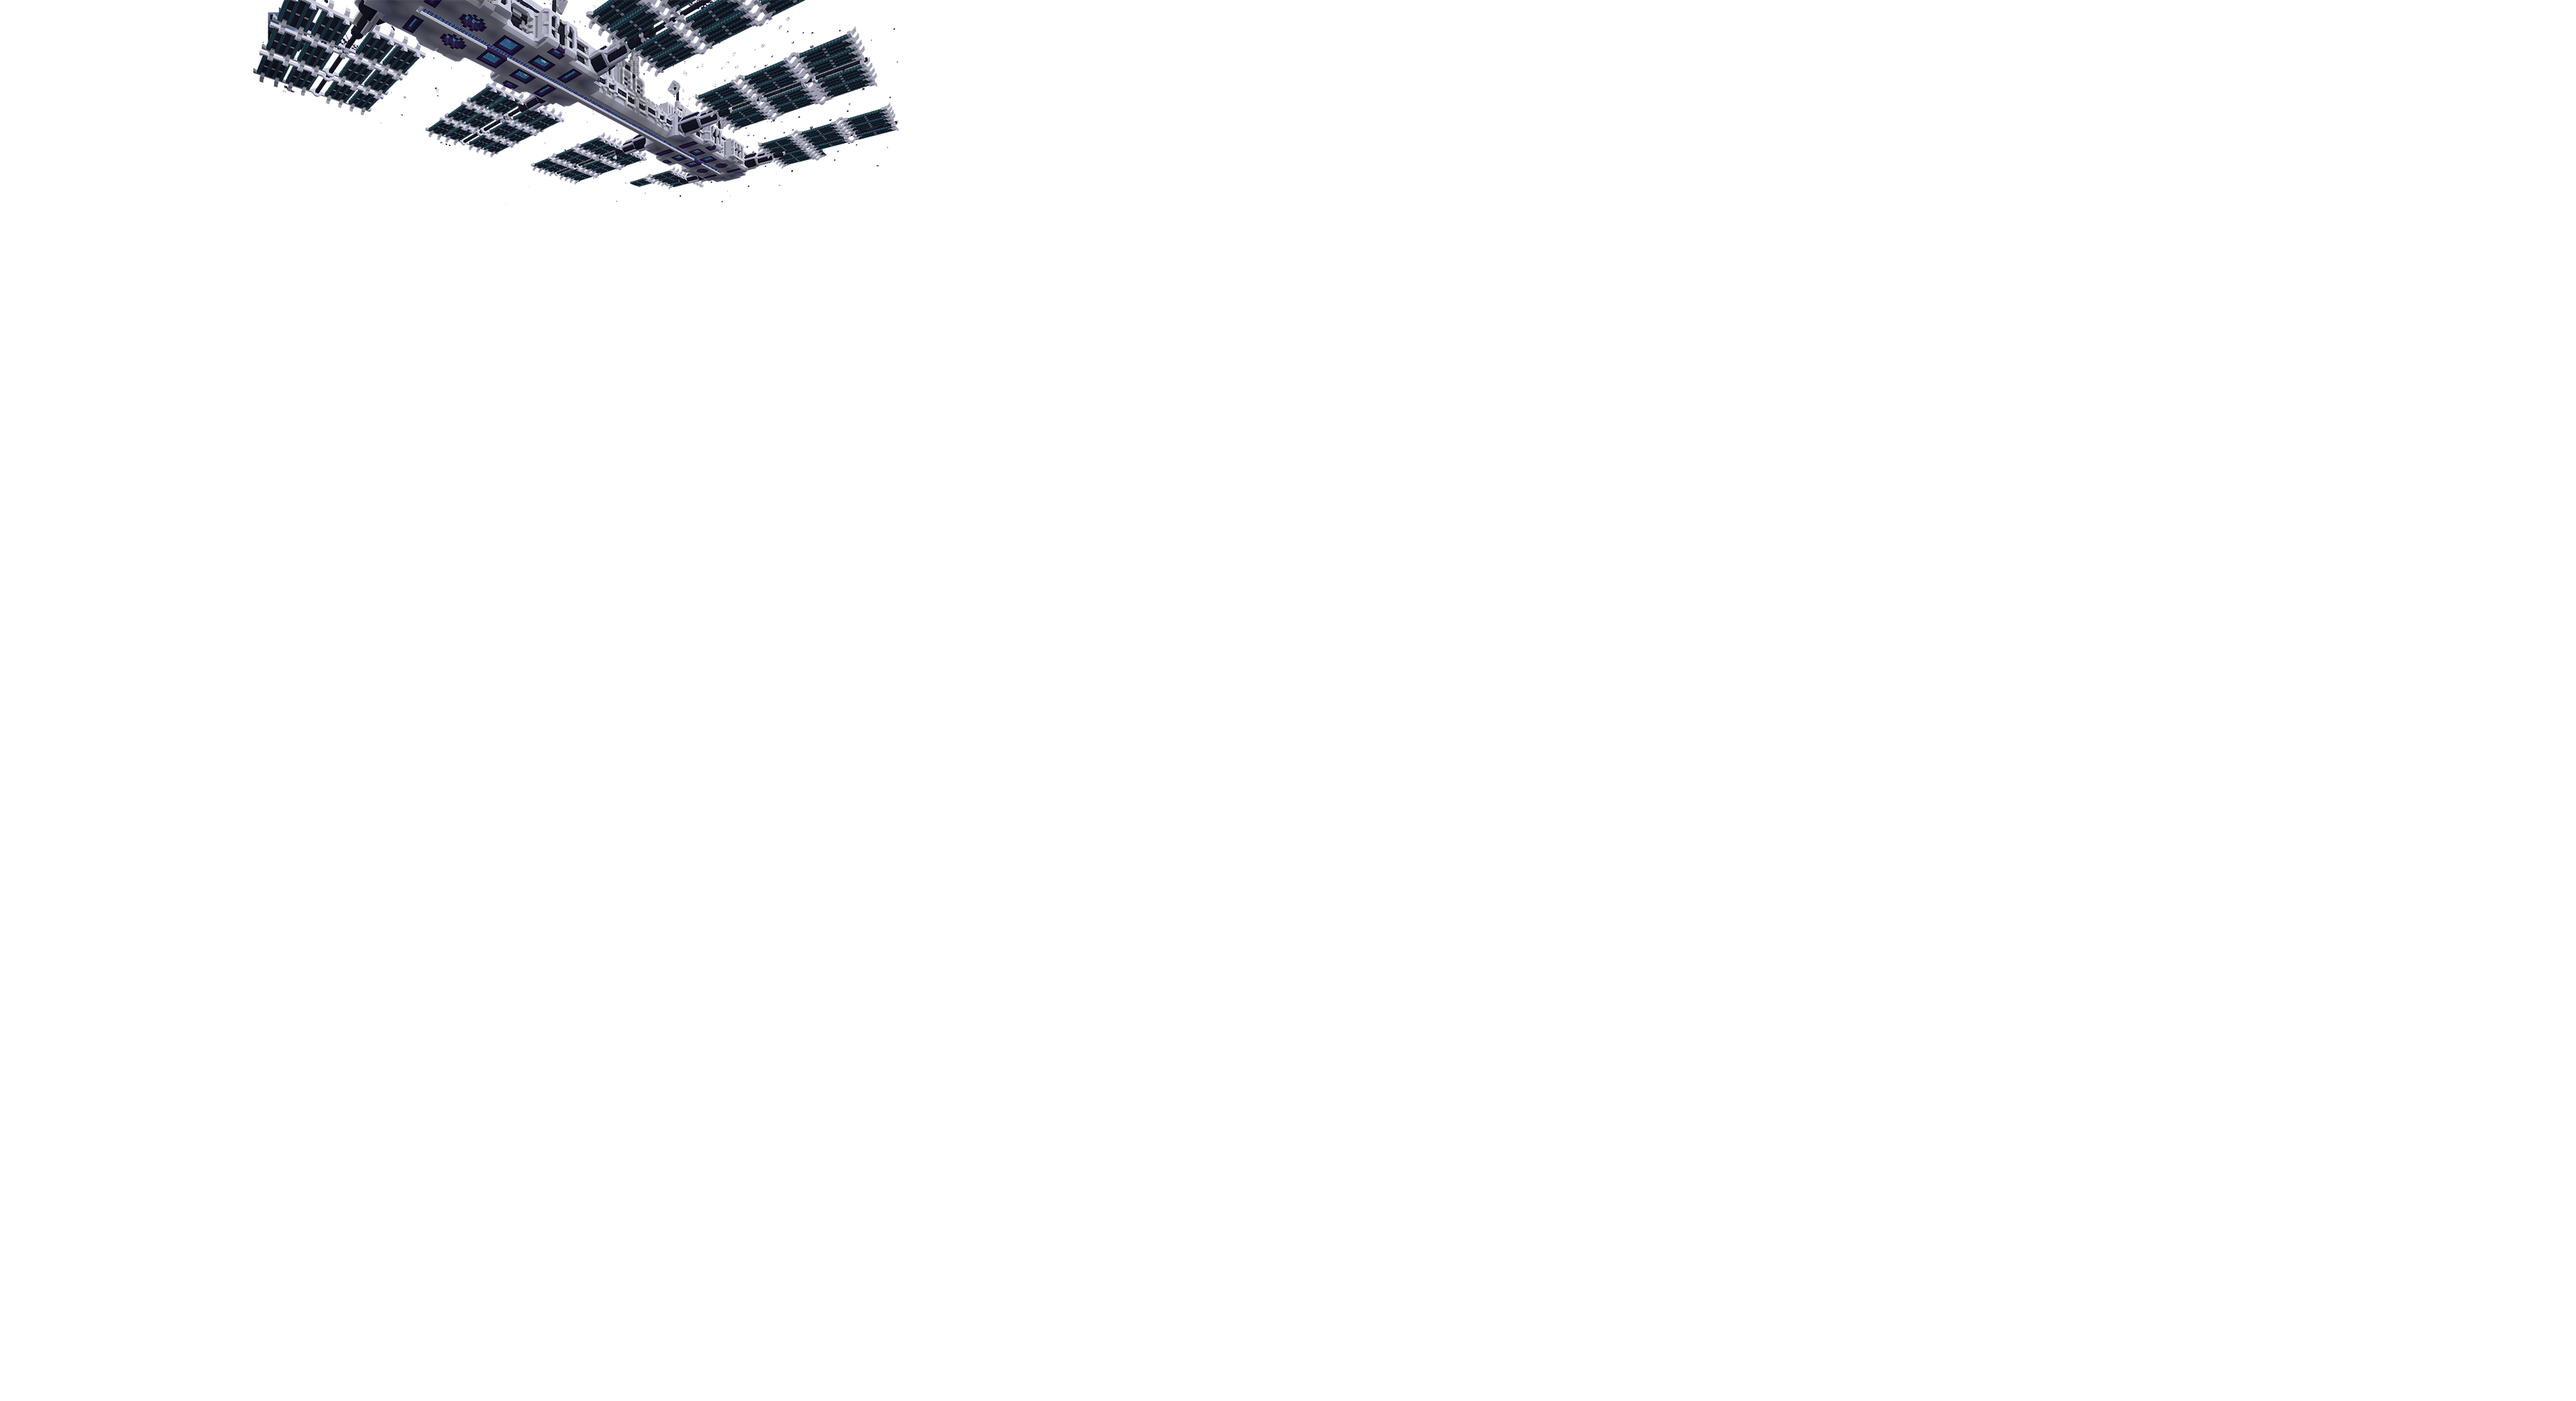
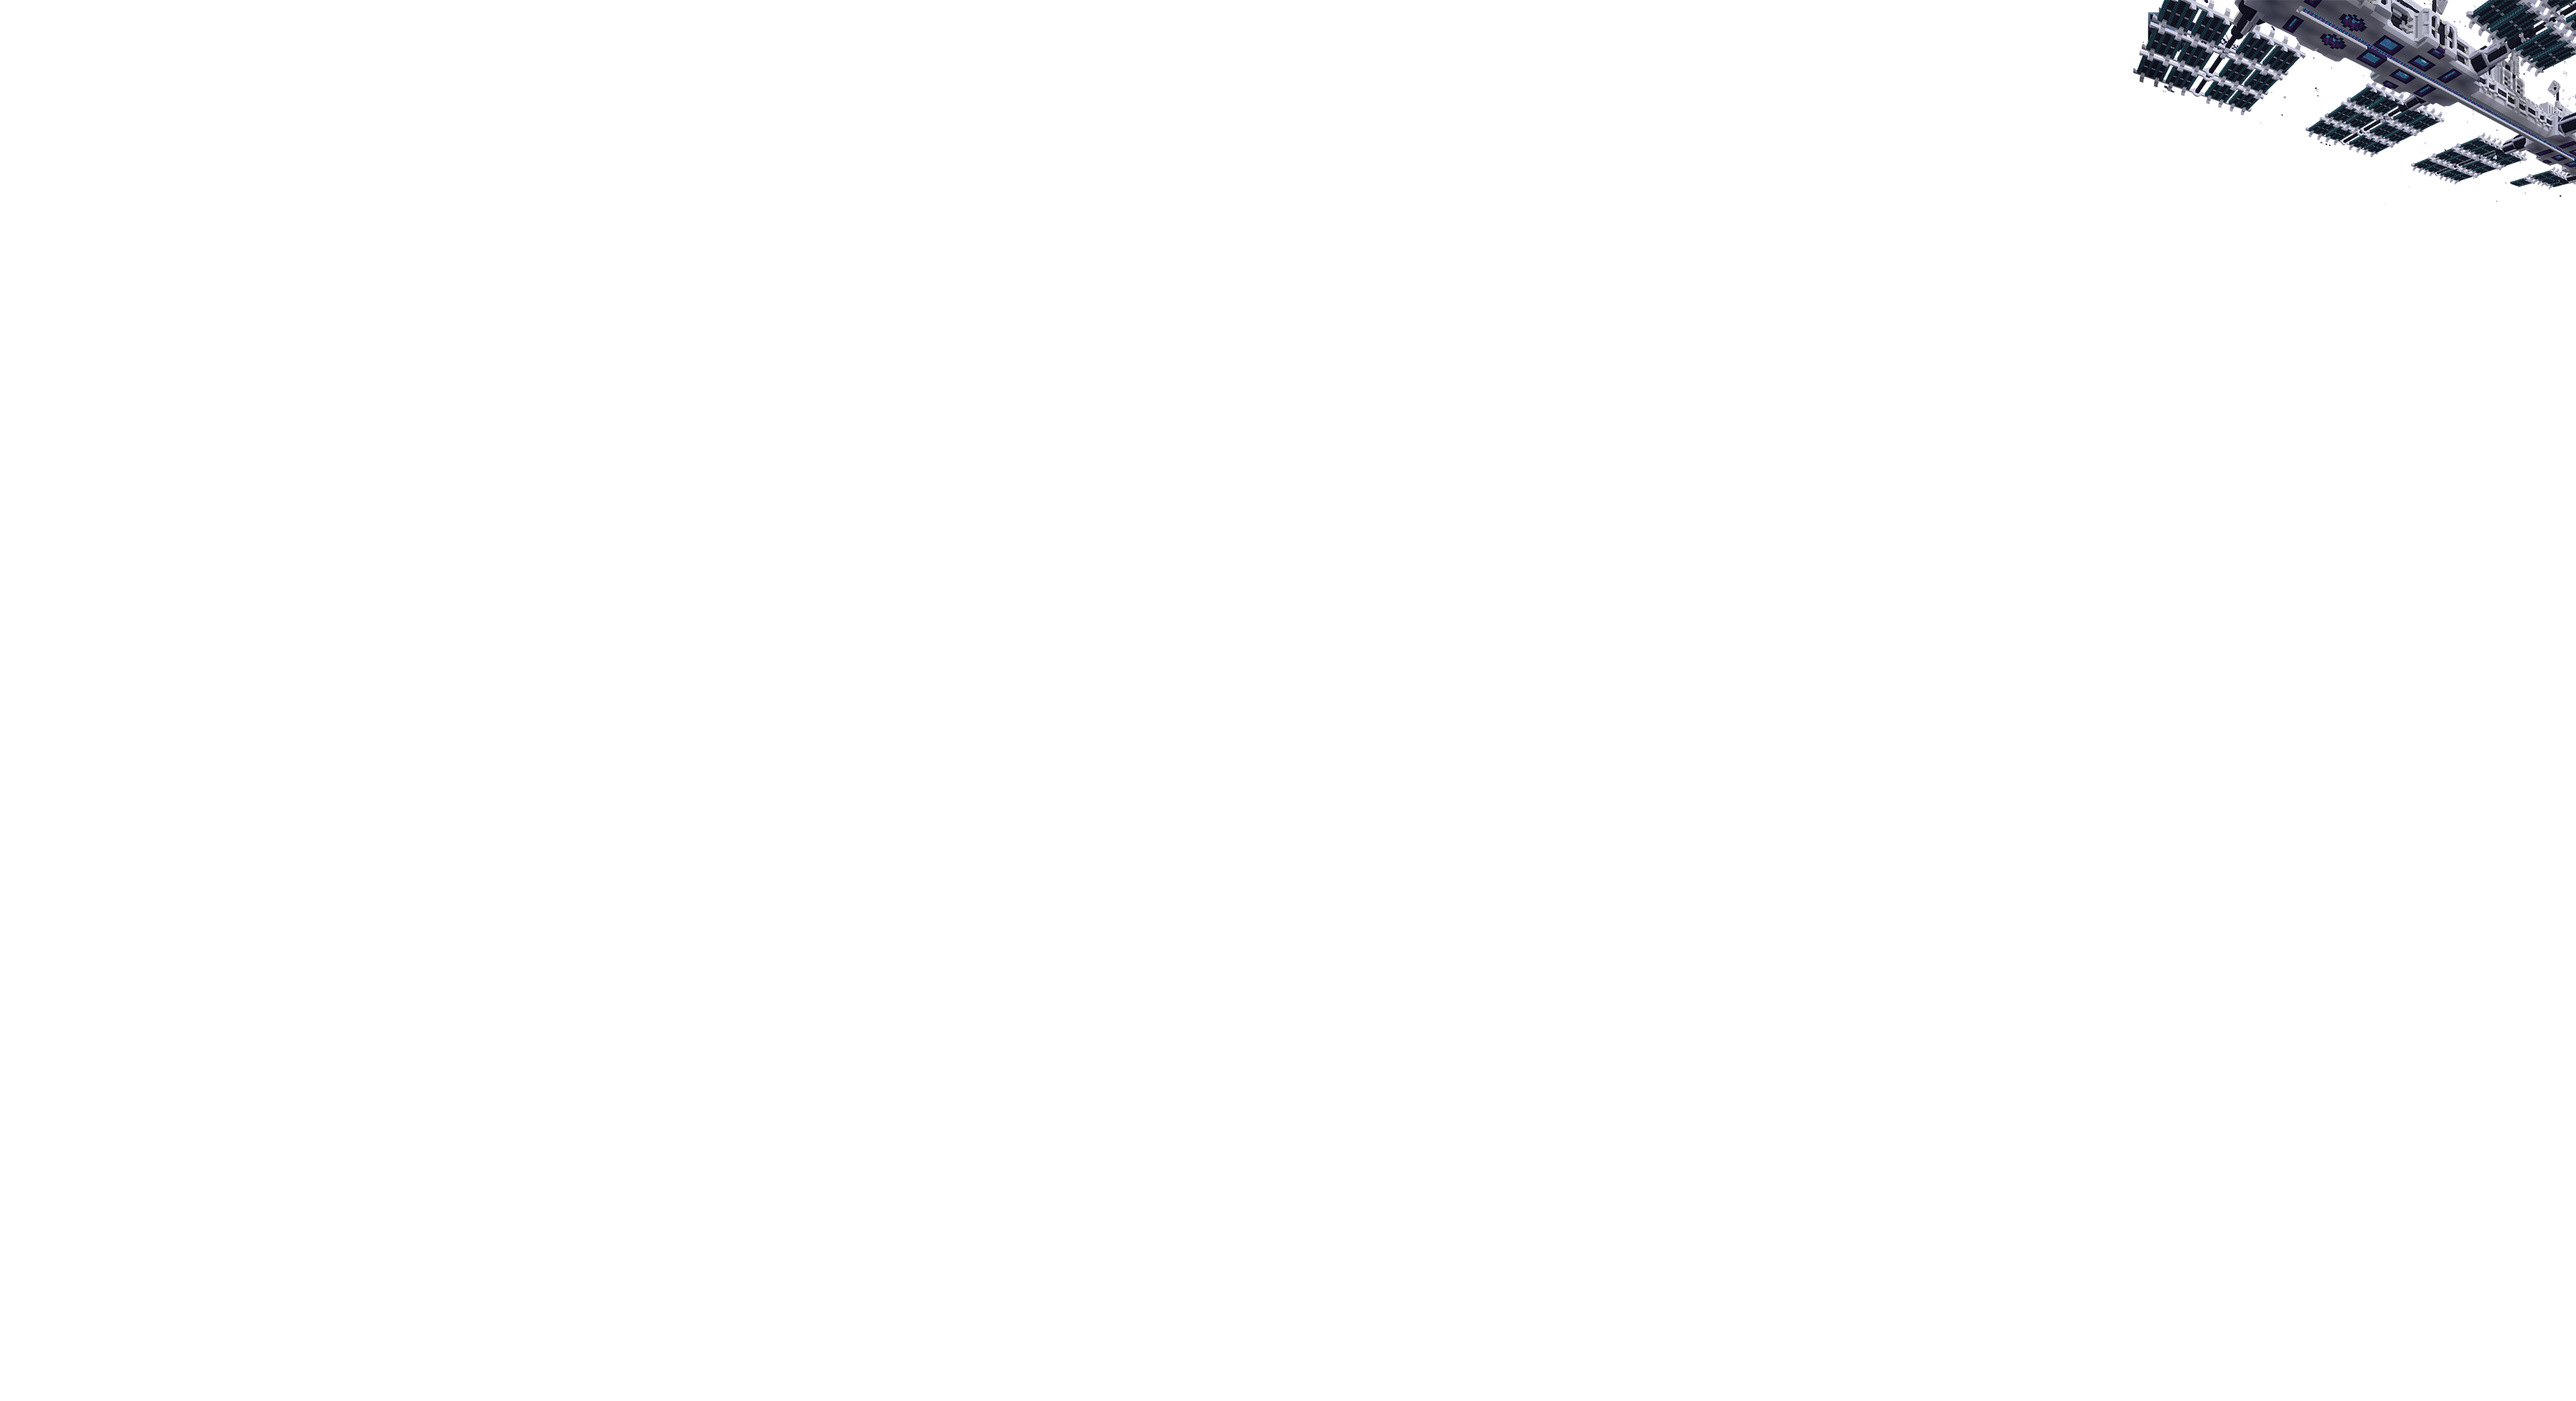
bgs

Changed region(s): [[0.0936, 0.0, 0.3434, 0.1549], [0.8116, 0.0, 1.0, 0.1549]]

diff --git a/components/sections/LandingPage.jsx b/components/sections/LandingPage.jsx
@@ -73,13 +73,13 @@ const LandingPage = () => (
                 id='secondary-front-bg'
                 className='bg-img' />
 
-            {/* <Image data-aos="fade-up" data-aos-duration="3000"
+            <Image data-aos="fade-up" data-aos-duration="3000"
                 src='/assets/images/BG-FFFFF.png'
                 alt='parallax-bgs'
                 priority='true'
                 width={3620}
                 height={1969}
-                className='squid' /> */}
+                className='squid' />
 
         <WebTitle /> 
 

diff --git a/components/sections/BottomWorld.jsx b/components/sections/BottomWorld.jsx
@@ -8,6 +8,7 @@ const BottomWorld= () => (
   <WorldCredits />
 
         <section>
+          
           <Image             
           data-aos="zoom-in"
           data-aos-duration={2000}
